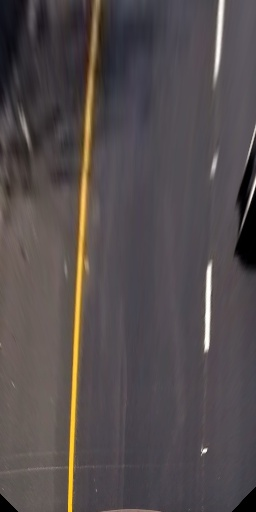
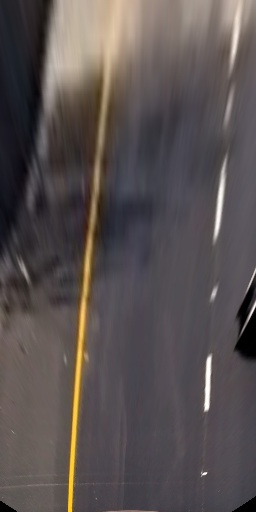
Thresholding on sobel operator as well

diff --git a/pipeline.py b/pipeline.py
@@ -4,7 +4,7 @@ import glob
 import pickle
 import os
 
-def warp(img, src=np.float32([[574,465],[711,465],[1048,681],[276,681]])):
+def warp(img, src=np.float32([[596,450],[688,450],[1048,681],[276,681]])):
     """Warp the image for top-down view"""
     img_size = (256,512)
     x1 = img_size[0]/4
@@ -19,11 +19,20 @@ def warp(img, src=np.float32([[574,465],[711,465],[1048,681],[276,681]])):
 
     return warped, M
 
-def threshold(img):
-    """Apply a binary threshold"""
+def thresh_r(img):
+    """Apply a binary threshold to the R channel"""
     b, g, r = cv2.split(img)
-    binary = cv2.adaptiveThreshold(r, 255, cv2.ADAPTIVE_THRESH_MEAN_C, cv2.THRESH_BINARY, 255, -75)
+    binary = cv2.adaptiveThreshold(r, 255, cv2.ADAPTIVE_THRESH_MEAN_C, cv2.THRESH_BINARY, 255, -70)
     return binary
+
+def thresh_sobel(img):
+    """Apply a binary threshold on the sobel operator"""
+    b, g, r = cv2.split(img)
+    sobelx = cv2.Sobel(cv2.blur(r, (25,17)), cv2.CV_64F, 1, 0)
+    abs_sobelx = np.absolute(sobelx)
+    scaled_sobel = np.uint8(255*abs_sobelx/np.max(abs_sobelx))
+    sobel_binary = cv2.adaptiveThreshold(scaled_sobel, 255, cv2.ADAPTIVE_THRESH_MEAN_C, cv2.THRESH_BINARY, 255, -40)
+    return sobel_binary
 
 def load_calibration_params():
     cal_file = open('calibration.pkl','rb')
@@ -42,7 +51,9 @@ def output_test_images():
         cv2.imwrite('output_images/undistorted_'+os.path.basename(fname), undist)
         warped, M = warp(undist)
         cv2.imwrite('output_images/warped_'+os.path.basename(fname), warped)
-        binary = threshold(warped)
-        cv2.imwrite('output_images/binary_'+os.path.basename(fname), binary)
+        binary_r = thresh_r(warped)
+        binary_sobel = thresh_sobel(warped)
+        thresholded = cv2.merge([np.zeros_like(binary_r), binary_r, binary_sobel])
+        cv2.imwrite('output_images/thresholded_'+os.path.basename(fname), thresholded)
 
 output_test_images()
